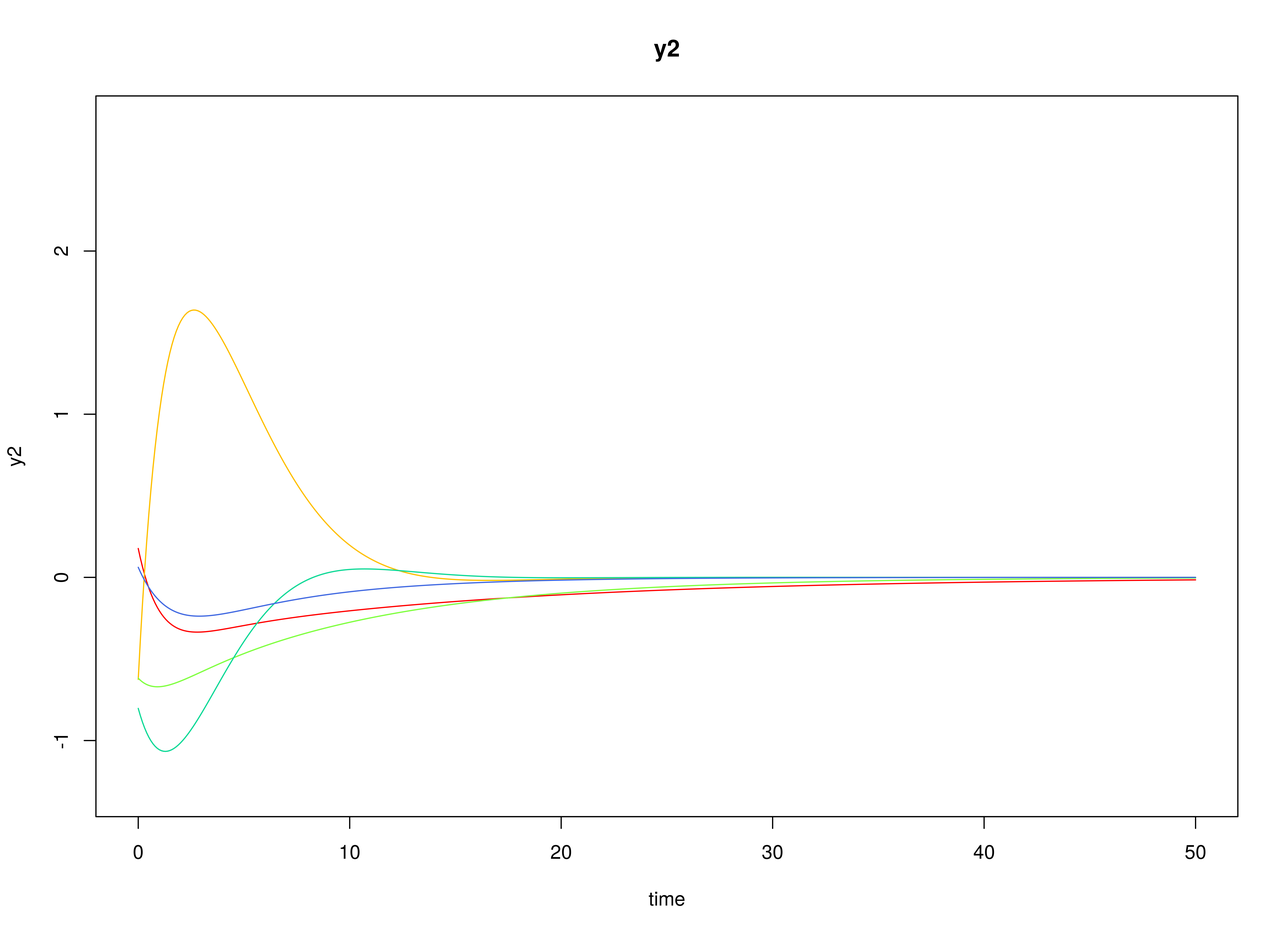
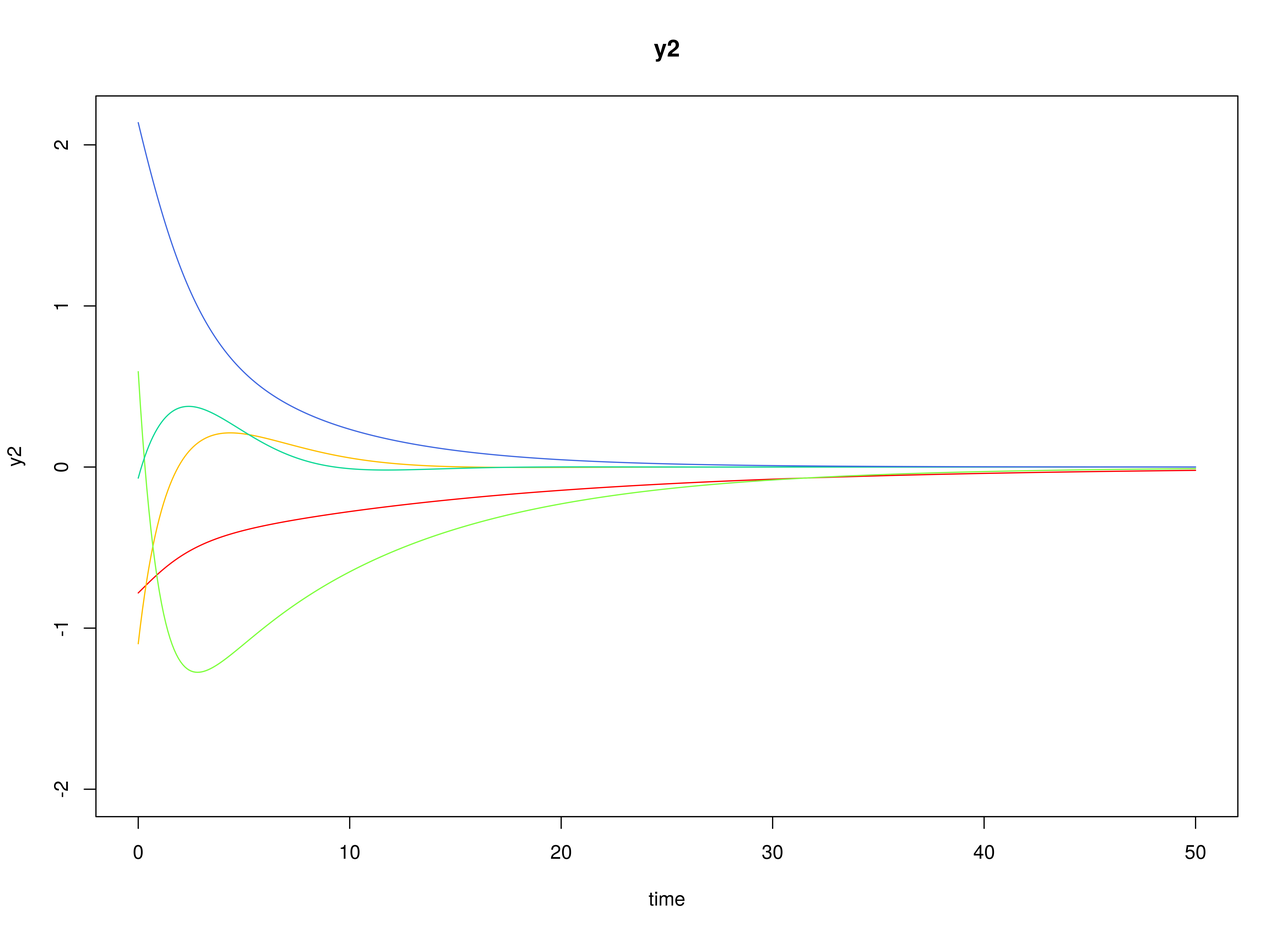
Deploying to pkgdown from @ jeksterslab/fitCTVARMx@f637cf271380e21aa95209ef7028e449f6520e6b 🚀

diff --git a/articles/fit-ct-var.html b/articles/fit-ct-var.html
@@ -59,7 +59,7 @@
                         <h4 data-toc-skip class="author">Ivan Jacob
 Agaloos Pesigan</h4>
             
-            <h4 data-toc-skip class="date">2024-08-08</h4>
+            <h4 data-toc-skip class="date">2024-08-11</h4>
       
       <small class="dont-index">Source: <a href="https://github.com/jeksterslab/fitCTVARMx/blob/main/vignettes/fit-ct-var.Rmd"><code>vignettes/fit-ct-var.Rmd</code></a></small>
       <div class="d-none name"><code>fit-ct-var.Rmd</code></div>
@@ -172,9 +172,9 @@ fluctuations.</p>
 <h3 id="notation">Notation<a class="anchor" aria-label="anchor" href="#notation"></a>
 </h3>
 <p>Let
-<math display="inline" xmlns="http://www.w3.org/1998/Math/MathML"><semantics><mrow><mi>t</mi><mo>=</mo><mn>1000</mn></mrow><annotation encoding="application/x-tex">t = 1000</annotation></semantics></math>
+<math display="inline" xmlns="http://www.w3.org/1998/Math/MathML"><semantics><mrow><mi>t</mi><mo>=</mo><mn>500</mn></mrow><annotation encoding="application/x-tex">t = 500</annotation></semantics></math>
 be the number of time points and
-<math display="inline" xmlns="http://www.w3.org/1998/Math/MathML"><semantics><mrow><mi>n</mi><mo>=</mo><mn>100</mn></mrow><annotation encoding="application/x-tex">n = 100</annotation></semantics></math>
+<math display="inline" xmlns="http://www.w3.org/1998/Math/MathML"><semantics><mrow><mi>n</mi><mo>=</mo><mn>10</mn></mrow><annotation encoding="application/x-tex">n = 10</annotation></semantics></math>
 be the number of individuals.</p>
 <p>Let the measurement model intecept vector
 <math display="inline" xmlns="http://www.w3.org/1998/Math/MathML"><semantics><mi>𝛎</mi><annotation encoding="application/x-tex">\boldsymbol{\nu}</annotation></semantics></math>
@@ -207,14 +207,14 @@ be given by</p>
 <p>Let the measurement error covariance matrix
 <math display="inline" xmlns="http://www.w3.org/1998/Math/MathML"><semantics><mi>𝚯</mi><annotation encoding="application/x-tex">\boldsymbol{\Theta}</annotation></semantics></math>
 be given by</p>
-<p><math display="block" xmlns="http://www.w3.org/1998/Math/MathML"><semantics><mrow><mi>𝚯</mi><mo>=</mo><mrow><mo stretchy="true" form="prefix">(</mo><mtable><mtr><mtd columnalign="center" style="text-align: center"><mn>0</mn></mtd><mtd columnalign="center" style="text-align: center"><mn>0</mn></mtd><mtd columnalign="center" style="text-align: center"><mn>0</mn></mtd></mtr><mtr><mtd columnalign="center" style="text-align: center"><mn>0</mn></mtd><mtd columnalign="center" style="text-align: center"><mn>0</mn></mtd><mtd columnalign="center" style="text-align: center"><mn>0</mn></mtd></mtr><mtr><mtd columnalign="center" style="text-align: center"><mn>0</mn></mtd><mtd columnalign="center" style="text-align: center"><mn>0</mn></mtd><mtd columnalign="center" style="text-align: center"><mn>0</mn></mtd></mtr><mtr><mtd columnalign="center" style="text-align: center"></mtd></mtr></mtable><mo stretchy="true" form="postfix">)</mo></mrow><mi>.</mi></mrow><annotation encoding="application/x-tex">\begin{equation}
+<p><math display="block" xmlns="http://www.w3.org/1998/Math/MathML"><semantics><mrow><mi>𝚯</mi><mo>=</mo><mrow><mo stretchy="true" form="prefix">(</mo><mtable><mtr><mtd columnalign="center" style="text-align: center"><mn>0.2</mn></mtd><mtd columnalign="center" style="text-align: center"><mn>0</mn></mtd><mtd columnalign="center" style="text-align: center"><mn>0</mn></mtd></mtr><mtr><mtd columnalign="center" style="text-align: center"><mn>0</mn></mtd><mtd columnalign="center" style="text-align: center"><mn>0.2</mn></mtd><mtd columnalign="center" style="text-align: center"><mn>0</mn></mtd></mtr><mtr><mtd columnalign="center" style="text-align: center"><mn>0</mn></mtd><mtd columnalign="center" style="text-align: center"><mn>0</mn></mtd><mtd columnalign="center" style="text-align: center"><mn>0.2</mn></mtd></mtr><mtr><mtd columnalign="center" style="text-align: center"></mtd></mtr></mtable><mo stretchy="true" form="postfix">)</mo></mrow><mi>.</mi></mrow><annotation encoding="application/x-tex">\begin{equation}
 \boldsymbol{\Theta}
 =
 \left(
 \begin{array}{ccc}
-  0 &amp; 0 &amp; 0 \\
-  0 &amp; 0 &amp; 0 \\
-  0 &amp; 0 &amp; 0 \\
+  0.2 &amp; 0 &amp; 0 \\
+  0 &amp; 0.2 &amp; 0 \\
+  0 &amp; 0 &amp; 0.2 \\
 \end{array}
 \right) .
 \end{equation}</annotation></semantics></math></p>
@@ -296,9 +296,9 @@ be given by</p>
 </h3>
 <div class="sourceCode" id="cb1"><pre class="downlit sourceCode r">
 <code class="sourceCode R"><span><span class="va">n</span></span>
-<span><span class="co">#&gt; [1] 100</span></span>
+<span><span class="co">#&gt; [1] 10</span></span>
 <span><span class="va">time</span></span>
-<span><span class="co">#&gt; [1] 1000</span></span>
+<span><span class="co">#&gt; [1] 500</span></span>
 <span><span class="va">delta_t</span></span>
 <span><span class="co">#&gt; [1] 0.1</span></span>
 <span><span class="va">mu0</span></span>
@@ -329,9 +329,9 @@ be given by</p>
 <span><span class="co">#&gt; [3,]    0    0    1</span></span>
 <span><span class="va">theta</span></span>
 <span><span class="co">#&gt;      [,1] [,2] [,3]</span></span>
-<span><span class="co">#&gt; [1,]    0    0    0</span></span>
-<span><span class="co">#&gt; [2,]    0    0    0</span></span>
-<span><span class="co">#&gt; [3,]    0    0    0</span></span></code></pre></div>
+<span><span class="co">#&gt; [1,]  0.2  0.0  0.0</span></span>
+<span><span class="co">#&gt; [2,]  0.0  0.2  0.0</span></span>
+<span><span class="co">#&gt; [3,]  0.0  0.0  0.2</span></span></code></pre></div>
 </div>
 <div class="section level3">
 <h3 id="visualizing-the-dynamics-without-measurement-error-and-process-noise-n-5-with-different-initial-condition">Visualizing the Dynamics Without Measurement Error and Process Noise
@@ -361,13 +361,13 @@ be given by</p>
 <span><span class="op">)</span></span>
 <span><span class="va">data</span> <span class="op">&lt;-</span> <span class="fu"><a href="https://rdrr.io/r/base/as.data.frame.html" class="external-link">as.data.frame</a></span><span class="op">(</span><span class="va">sim</span><span class="op">)</span></span>
 <span><span class="fu"><a href="https://rdrr.io/r/utils/head.html" class="external-link">head</a></span><span class="op">(</span><span class="va">data</span><span class="op">)</span></span>
-<span><span class="co">#&gt;   id time         y1         y2        y3</span></span>
-<span><span class="co">#&gt; 1  1  0.0 -0.3643096 -0.6026342 0.9065540</span></span>
-<span><span class="co">#&gt; 2  1  0.1 -0.3256180 -0.5022615 0.8677814</span></span>
-<span><span class="co">#&gt; 3  1  0.2 -0.2296496 -0.3203675 0.8569315</span></span>
-<span><span class="co">#&gt; 4  1  0.3 -0.2413114 -0.3622560 0.7848573</span></span>
-<span><span class="co">#&gt; 5  1  0.4 -0.3358543 -0.2430579 0.6294530</span></span>
-<span><span class="co">#&gt; 6  1  0.5 -0.2806468 -0.2063894 0.5806752</span></span>
+<span><span class="co">#&gt;   id time         y1          y2        y3</span></span>
+<span><span class="co">#&gt; 1  1  0.0  0.2993754 -1.31512925 1.5799184</span></span>
+<span><span class="co">#&gt; 2  1  0.1 -1.0023155  0.03359621 1.0254889</span></span>
+<span><span class="co">#&gt; 3  1  0.2  0.2704403 -0.32115025 1.3880666</span></span>
+<span><span class="co">#&gt; 4  1  0.3 -0.1433416 -0.75056366 1.2085179</span></span>
+<span><span class="co">#&gt; 5  1  0.4 -1.4919305 -0.26816762 0.2749754</span></span>
+<span><span class="co">#&gt; 6  1  0.5 -0.7640905  0.45476189 0.3812558</span></span>
 <span><span class="fu"><a href="https://rdrr.io/r/graphics/plot.default.html" class="external-link">plot</a></span><span class="op">(</span><span class="va">sim</span><span class="op">)</span></span></code></pre></div>
 <p><img src="fig-vignettes-fit-ct-var-mx-error-1.png" width="3300"><img src="fig-vignettes-fit-ct-var-mx-error-2.png" width="3300"><img src="fig-vignettes-fit-ct-var-mx-error-3.png" width="3300"></p>
 </div>
@@ -385,37 +385,41 @@ individual
 <span>  observed <span class="op">=</span> <span class="fu"><a href="https://rdrr.io/r/base/paste.html" class="external-link">paste0</a></span><span class="op">(</span><span class="st">"y"</span>, <span class="fu"><a href="https://rdrr.io/r/base/seq.html" class="external-link">seq_len</a></span><span class="op">(</span><span class="va">k</span><span class="op">)</span><span class="op">)</span>,</span>
 <span>  id <span class="op">=</span> <span class="st">"id"</span>,</span>
 <span>  time <span class="op">=</span> <span class="st">"time"</span>,</span>
+<span>  theta_fixed <span class="op">=</span> <span class="cn">FALSE</span>,</span>
 <span>  ncores <span class="op">=</span> <span class="fu">parallel</span><span class="fu">::</span><span class="fu"><a href="https://rdrr.io/r/parallel/detectCores.html" class="external-link">detectCores</a></span><span class="op">(</span><span class="op">)</span></span>
 <span><span class="op">)</span></span>
-<span><span class="co">#&gt; Running CTVAR with 12 parameters</span></span>
+<span><span class="co">#&gt; Running CTVAR with 15 parameters</span></span>
 <span><span class="co">#&gt; </span></span>
 <span><span class="co">#&gt; Beginning initial fit attempt</span></span>
-<span><span class="co">#&gt; Running CTVAR with 12 parameters</span></span>
+<span><span class="co">#&gt; Running CTVAR with 15 parameters</span></span>
 <span><span class="co">#&gt; </span></span>
-<span><span class="co">#&gt;  Lowest minimum so far:  -543716.980131128</span></span>
+<span><span class="co">#&gt;  Lowest minimum so far:  20938.7451915782</span></span>
 <span><span class="co">#&gt; </span></span>
 <span><span class="co">#&gt; Solution found</span></span></code></pre></div>
 <pre><code><span><span class="co">#&gt; </span></span>
-<span><span class="co">#&gt;  Solution found!  Final fit=-543716.98 (started at -524291.52)  (1 attempt(s): 1 valid, 0 errors)</span></span>
+<span><span class="co">#&gt;  Solution found!  Final fit=20938.745 (started at 25088.788)  (1 attempt(s): 1 valid, 0 errors)</span></span>
 <span><span class="co">#&gt;  Start values from best fit:</span></span>
-<span><span class="co">#&gt; -0.336259079122471,0.770287067798403,-0.464190065239356,0.00205658765648727,-0.521492461088462,0.735878240731034,-0.0106374506388174,0.0129009602154161,-0.697095884475648,0.0994158716609205,0.100737065910388,0.10023245133394</span></span>
+<span><span class="co">#&gt; -0.434092846335603,0.731083054534586,-0.408948705507987,0.0277828630418771,-0.510542571057738,0.665259002972739,-0.0372740055486106,0.0358314559387023,-0.669863577496887,0.105612247224809,0.112017199749032,0.0922633953514766,0.196662438389066,0.186379501447245,0.203624352675804</span></span>
 <span><span class="va">fit</span></span>
 <span><span class="co">#&gt; Summary of CTVAR </span></span>
 <span><span class="co">#&gt;  </span></span>
 <span><span class="co">#&gt; free parameters:</span></span>
-<span><span class="co">#&gt;        name        matrix  row  col     Estimate    Std.Error A</span></span>
-<span><span class="co">#&gt; 1    phi_11   CTVAR_1.phi eta1 eta1 -0.336259079 0.0112876840  </span></span>
-<span><span class="co">#&gt; 2    phi_21   CTVAR_1.phi eta2 eta1  0.770287068 0.0112334809  </span></span>
-<span><span class="co">#&gt; 3    phi_31   CTVAR_1.phi eta3 eta1 -0.464190065 0.0111528376  </span></span>
-<span><span class="co">#&gt; 4    phi_12   CTVAR_1.phi eta1 eta2  0.002056588 0.0097320464  </span></span>
-<span><span class="co">#&gt; 5    phi_22   CTVAR_1.phi eta2 eta2 -0.521492461 0.0098184506  </span></span>
-<span><span class="co">#&gt; 6    phi_32   CTVAR_1.phi eta3 eta2  0.735878241 0.0097176408  </span></span>
-<span><span class="co">#&gt; 7    phi_13   CTVAR_1.phi eta1 eta3 -0.010637451 0.0089962429  </span></span>
-<span><span class="co">#&gt; 8    phi_23   CTVAR_1.phi eta2 eta3  0.012900960 0.0090682626  </span></span>
-<span><span class="co">#&gt; 9    phi_33   CTVAR_1.phi eta3 eta3 -0.697095884 0.0090833222  </span></span>
-<span><span class="co">#&gt; 10 sigma_11 CTVAR_1.sigma eta1 eta1  0.099415872 0.0004590553  </span></span>
-<span><span class="co">#&gt; 11 sigma_22 CTVAR_1.sigma eta2 eta2  0.100737066 0.0004614320  </span></span>
-<span><span class="co">#&gt; 12 sigma_33 CTVAR_1.sigma eta3 eta3  0.100232451 0.0004571693  </span></span>
+<span><span class="co">#&gt;        name        matrix  row  col    Estimate   Std.Error A</span></span>
+<span><span class="co">#&gt; 1    phi_11   CTVAR_1.phi eta1 eta1 -0.43409285 0.092674248  </span></span>
+<span><span class="co">#&gt; 2    phi_21   CTVAR_1.phi eta2 eta1  0.73108305 0.080617107  </span></span>
+<span><span class="co">#&gt; 3    phi_31   CTVAR_1.phi eta3 eta1 -0.40894871 0.073163039  </span></span>
+<span><span class="co">#&gt; 4    phi_12   CTVAR_1.phi eta1 eta2  0.02778286 0.066923811  </span></span>
+<span><span class="co">#&gt; 5    phi_22   CTVAR_1.phi eta2 eta2 -0.51054257 0.071676661  </span></span>
+<span><span class="co">#&gt; 6    phi_32   CTVAR_1.phi eta3 eta2  0.66525900 0.063093652  </span></span>
+<span><span class="co">#&gt; 7    phi_13   CTVAR_1.phi eta1 eta3 -0.03727401 0.058772785  </span></span>
+<span><span class="co">#&gt; 8    phi_23   CTVAR_1.phi eta2 eta3  0.03583146 0.062072649  </span></span>
+<span><span class="co">#&gt; 9    phi_33   CTVAR_1.phi eta3 eta3 -0.66986358 0.063636481  </span></span>
+<span><span class="co">#&gt; 10 sigma_11 CTVAR_1.sigma eta1 eta1  0.10561225 0.014307028  </span></span>
+<span><span class="co">#&gt; 11 sigma_22 CTVAR_1.sigma eta2 eta2  0.11201720 0.012739578  </span></span>
+<span><span class="co">#&gt; 12 sigma_33 CTVAR_1.sigma eta3 eta3  0.09226340 0.011809245  </span></span>
+<span><span class="co">#&gt; 13 theta_11 CTVAR_1.theta   y1   y1  0.19666244 0.004623033  </span></span>
+<span><span class="co">#&gt; 14 theta_22 CTVAR_1.theta   y2   y2  0.18637950 0.004372056  </span></span>
+<span><span class="co">#&gt; 15 theta_33 CTVAR_1.theta   y3   y3  0.20362435 0.004709026  </span></span>
 <span><span class="co">#&gt;                  lbound               ubound</span></span>
 <span><span class="co">#&gt; 1                       2.2250738585072e-308</span></span>
 <span><span class="co">#&gt; 2                                           </span></span>
@@ -429,25 +433,28 @@ individual
 <span><span class="co">#&gt; 10 2.2250738585072e-308                     </span></span>
 <span><span class="co">#&gt; 11 2.2250738585072e-308                     </span></span>
 <span><span class="co">#&gt; 12 2.2250738585072e-308                     </span></span>
+<span><span class="co">#&gt; 13 2.2250738585072e-308                     </span></span>
+<span><span class="co">#&gt; 14 2.2250738585072e-308                     </span></span>
+<span><span class="co">#&gt; 15 2.2250738585072e-308                     </span></span>
 <span><span class="co">#&gt; </span></span>
 <span><span class="co">#&gt; Model Statistics: </span></span>
 <span><span class="co">#&gt;                |  Parameters  |  Degrees of Freedom  |  Fit (-2lnL units)</span></span>
-<span><span class="co">#&gt;        Model:             12                 299988               -543717</span></span>
+<span><span class="co">#&gt;        Model:             15                  14985              20938.75</span></span>
 <span><span class="co">#&gt;    Saturated:             NA                     NA                    NA</span></span>
 <span><span class="co">#&gt; Independence:             NA                     NA                    NA</span></span>
-<span><span class="co">#&gt; Number of observations/statistics: 1e+05/3e+05</span></span>
+<span><span class="co">#&gt; Number of observations/statistics: 5000/15000</span></span>
 <span><span class="co">#&gt; </span></span>
 <span><span class="co">#&gt; Information Criteria: </span></span>
 <span><span class="co">#&gt;       |  df Penalty  |  Parameters Penalty  |  Sample-Size Adjusted</span></span>
-<span><span class="co">#&gt; AIC:       -1143693              -543693.0                  -543693</span></span>
-<span><span class="co">#&gt; BIC:       -3997456              -543578.8                  -543617</span></span>
+<span><span class="co">#&gt; AIC:      -9031.255               20968.75                 20968.84</span></span>
+<span><span class="co">#&gt; BIC:    -106691.395               21066.50                 21018.84</span></span>
 <span><span class="co">#&gt; CFI: NA </span></span>
 <span><span class="co">#&gt; TLI: 1   (also known as NNFI) </span></span>
 <span><span class="co">#&gt; RMSEA:  0  [95% CI (NA, NA)]</span></span>
 <span><span class="co">#&gt; Prob(RMSEA &lt;= 0.05): NA</span></span>
 <span><span class="co">#&gt; To get additional fit indices, see help(mxRefModels)</span></span>
-<span><span class="co">#&gt; timestamp: 2024-08-08 07:04:42 </span></span>
-<span><span class="co">#&gt; Wall clock time: 149.2614 secs </span></span>
+<span><span class="co">#&gt; timestamp: 2024-08-11 22:29:06 </span></span>
+<span><span class="co">#&gt; Wall clock time: 11.63689 secs </span></span>
 <span><span class="co">#&gt; optimizer:  SLSQP </span></span>
 <span><span class="co">#&gt; OpenMx version number: 2.21.11 </span></span>
 <span><span class="co">#&gt; Need help?  See help(mxSummary)</span></span></code></pre>

diff --git a/articles/fit-ct-var-id.html b/articles/fit-ct-var-id.html
@@ -59,7 +59,7 @@
                         <h4 data-toc-skip class="author">Ivan Jacob
 Agaloos Pesigan</h4>
             
-            <h4 data-toc-skip class="date">2024-08-08</h4>
+            <h4 data-toc-skip class="date">2024-08-11</h4>
       
       <small class="dont-index">Source: <a href="https://github.com/jeksterslab/fitCTVARMx/blob/main/vignettes/fit-ct-var-id.Rmd"><code>vignettes/fit-ct-var-id.Rmd</code></a></small>
       <div class="d-none name"><code>fit-ct-var-id.Rmd</code></div>
@@ -172,9 +172,9 @@ fluctuations.</p>
 <h3 id="notation">Notation<a class="anchor" aria-label="anchor" href="#notation"></a>
 </h3>
 <p>Let
-<math display="inline" xmlns="http://www.w3.org/1998/Math/MathML"><semantics><mrow><mi>t</mi><mo>=</mo><mn>1000</mn></mrow><annotation encoding="application/x-tex">t = 1000</annotation></semantics></math>
+<math display="inline" xmlns="http://www.w3.org/1998/Math/MathML"><semantics><mrow><mi>t</mi><mo>=</mo><mn>500</mn></mrow><annotation encoding="application/x-tex">t = 500</annotation></semantics></math>
 be the number of time points and
-<math display="inline" xmlns="http://www.w3.org/1998/Math/MathML"><semantics><mrow><mi>n</mi><mo>=</mo><mn>100</mn></mrow><annotation encoding="application/x-tex">n = 100</annotation></semantics></math>
+<math display="inline" xmlns="http://www.w3.org/1998/Math/MathML"><semantics><mrow><mi>n</mi><mo>=</mo><mn>10</mn></mrow><annotation encoding="application/x-tex">n = 10</annotation></semantics></math>
 be the number of individuals.</p>
 <p>Let the measurement model intecept vector
 <math display="inline" xmlns="http://www.w3.org/1998/Math/MathML"><semantics><mi>𝛎</mi><annotation encoding="application/x-tex">\boldsymbol{\nu}</annotation></semantics></math>
@@ -207,14 +207,14 @@ be given by</p>
 <p>Let the measurement error covariance matrix
 <math display="inline" xmlns="http://www.w3.org/1998/Math/MathML"><semantics><mi>𝚯</mi><annotation encoding="application/x-tex">\boldsymbol{\Theta}</annotation></semantics></math>
 be given by</p>
-<p><math display="block" xmlns="http://www.w3.org/1998/Math/MathML"><semantics><mrow><mi>𝚯</mi><mo>=</mo><mrow><mo stretchy="true" form="prefix">(</mo><mtable><mtr><mtd columnalign="center" style="text-align: center"><mn>0</mn></mtd><mtd columnalign="center" style="text-align: center"><mn>0</mn></mtd><mtd columnalign="center" style="text-align: center"><mn>0</mn></mtd></mtr><mtr><mtd columnalign="center" style="text-align: center"><mn>0</mn></mtd><mtd columnalign="center" style="text-align: center"><mn>0</mn></mtd><mtd columnalign="center" style="text-align: center"><mn>0</mn></mtd></mtr><mtr><mtd columnalign="center" style="text-align: center"><mn>0</mn></mtd><mtd columnalign="center" style="text-align: center"><mn>0</mn></mtd><mtd columnalign="center" style="text-align: center"><mn>0</mn></mtd></mtr><mtr><mtd columnalign="center" style="text-align: center"></mtd></mtr></mtable><mo stretchy="true" form="postfix">)</mo></mrow><mi>.</mi></mrow><annotation encoding="application/x-tex">\begin{equation}
+<p><math display="block" xmlns="http://www.w3.org/1998/Math/MathML"><semantics><mrow><mi>𝚯</mi><mo>=</mo><mrow><mo stretchy="true" form="prefix">(</mo><mtable><mtr><mtd columnalign="center" style="text-align: center"><mn>0.2</mn></mtd><mtd columnalign="center" style="text-align: center"><mn>0</mn></mtd><mtd columnalign="center" style="text-align: center"><mn>0</mn></mtd></mtr><mtr><mtd columnalign="center" style="text-align: center"><mn>0</mn></mtd><mtd columnalign="center" style="text-align: center"><mn>0.2</mn></mtd><mtd columnalign="center" style="text-align: center"><mn>0</mn></mtd></mtr><mtr><mtd columnalign="center" style="text-align: center"><mn>0</mn></mtd><mtd columnalign="center" style="text-align: center"><mn>0</mn></mtd><mtd columnalign="center" style="text-align: center"><mn>0.2</mn></mtd></mtr><mtr><mtd columnalign="center" style="text-align: center"></mtd></mtr></mtable><mo stretchy="true" form="postfix">)</mo></mrow><mi>.</mi></mrow><annotation encoding="application/x-tex">\begin{equation}
 \boldsymbol{\Theta}
 =
 \left(
 \begin{array}{ccc}
-  0 &amp; 0 &amp; 0 \\
-  0 &amp; 0 &amp; 0 \\
-  0 &amp; 0 &amp; 0 \\
+  0.2 &amp; 0 &amp; 0 \\
+  0 &amp; 0.2 &amp; 0 \\
+  0 &amp; 0 &amp; 0.2 \\
 \end{array}
 \right) .
 \end{equation}</annotation></semantics></math></p>
@@ -314,9 +314,9 @@ be given by</p>
 </h3>
 <div class="sourceCode" id="cb1"><pre class="downlit sourceCode r">
 <code class="sourceCode R"><span><span class="va">n</span></span>
-<span><span class="co">#&gt; [1] 100</span></span>
+<span><span class="co">#&gt; [1] 10</span></span>
 <span><span class="va">time</span></span>
-<span><span class="co">#&gt; [1] 1000</span></span>
+<span><span class="co">#&gt; [1] 500</span></span>
 <span><span class="va">delta_t</span></span>
 <span><span class="co">#&gt; [1] 0.1</span></span>
 <span><span class="va">mu0</span></span>
@@ -364,15 +364,15 @@ be given by</p>
 <span><span class="co">#&gt; [3,]    0    0    1</span></span>
 <span><span class="va">theta</span></span>
 <span><span class="co">#&gt;      [,1] [,2] [,3]</span></span>
-<span><span class="co">#&gt; [1,]    0    0    0</span></span>
-<span><span class="co">#&gt; [2,]    0    0    0</span></span>
-<span><span class="co">#&gt; [3,]    0    0    0</span></span>
+<span><span class="co">#&gt; [1,]  0.2  0.0  0.0</span></span>
+<span><span class="co">#&gt; [2,]  0.0  0.2  0.0</span></span>
+<span><span class="co">#&gt; [3,]  0.0  0.0  0.2</span></span>
 <span><span class="va">theta_l</span></span>
 <span><span class="co">#&gt; [[1]]</span></span>
-<span><span class="co">#&gt;      [,1] [,2] [,3]</span></span>
-<span><span class="co">#&gt; [1,]    0    0    0</span></span>
-<span><span class="co">#&gt; [2,]    0    0    0</span></span>
-<span><span class="co">#&gt; [3,]    0    0    0</span></span></code></pre></div>
+<span><span class="co">#&gt;           [,1]      [,2]      [,3]</span></span>
+<span><span class="co">#&gt; [1,] 0.4472136 0.0000000 0.0000000</span></span>
+<span><span class="co">#&gt; [2,] 0.0000000 0.4472136 0.0000000</span></span>
+<span><span class="co">#&gt; [3,] 0.0000000 0.0000000 0.4472136</span></span></code></pre></div>
 </div>
 <div class="section level3">
 <h3 id="visualizing-the-dynamics-without-process-noise-n-5-with-different-initial-condition">Visualizing the Dynamics Without Process Noise (n = 5 with Different
@@ -401,13 +401,13 @@ Initial Condition)<a class="anchor" aria-label="anchor" href="#visualizing-the-d
 <span><span class="op">)</span></span>
 <span><span class="va">data</span> <span class="op">&lt;-</span> <span class="fu"><a href="https://rdrr.io/r/base/as.data.frame.html" class="external-link">as.data.frame</a></span><span class="op">(</span><span class="va">sim</span><span class="op">)</span></span>
 <span><span class="fu"><a href="https://rdrr.io/r/utils/head.html" class="external-link">head</a></span><span class="op">(</span><span class="va">data</span><span class="op">)</span></span>
-<span><span class="co">#&gt;   id time        y1         y2        y3</span></span>
-<span><span class="co">#&gt; 1  1  0.0 -1.407144 -0.3703871 -1.005882</span></span>
-<span><span class="co">#&gt; 2  1  0.1 -1.372881 -0.4764856 -1.058330</span></span>
-<span><span class="co">#&gt; 3  1  0.2 -1.290353 -0.5443476 -1.018862</span></span>
-<span><span class="co">#&gt; 4  1  0.3 -1.239194 -0.7836783 -1.072401</span></span>
-<span><span class="co">#&gt; 5  1  0.4 -1.110661 -0.9018310 -1.060215</span></span>
-<span><span class="co">#&gt; 6  1  0.5 -1.198872 -0.8450478 -1.084714</span></span>
+<span><span class="co">#&gt;   id time         y1         y2         y3</span></span>
+<span><span class="co">#&gt; 1  1  0.0 -0.9066322  0.2077655 -0.1532395</span></span>
+<span><span class="co">#&gt; 2  1  0.1 -2.0187881  0.1100828  1.5700524</span></span>
+<span><span class="co">#&gt; 3  1  0.2 -1.9509792  0.7388884  0.6062416</span></span>
+<span><span class="co">#&gt; 4  1  0.3 -0.7648885 -0.3710951  0.6992641</span></span>
+<span><span class="co">#&gt; 5  1  0.4 -1.9989218 -1.4027964 -0.1971148</span></span>
+<span><span class="co">#&gt; 6  1  0.5 -1.7412161 -0.2356327 -0.4460133</span></span>
 <span><span class="fu"><a href="https://rdrr.io/r/graphics/plot.default.html" class="external-link">plot</a></span><span class="op">(</span><span class="va">sim</span><span class="op">)</span></span></code></pre></div>
 <p><img src="fig-vignettes-fit-ct-var-id-mx-error-1.png" width="3300"><img src="fig-vignettes-fit-ct-var-id-mx-error-2.png" width="3300"><img src="fig-vignettes-fit-ct-var-id-mx-error-3.png" width="3300"></p>
 </div>
@@ -425,15 +425,18 @@ individual
 <span>  observed <span class="op">=</span> <span class="fu"><a href="https://rdrr.io/r/base/paste.html" class="external-link">paste0</a></span><span class="op">(</span><span class="st">"y"</span>, <span class="fu"><a href="https://rdrr.io/r/base/seq.html" class="external-link">seq_len</a></span><span class="op">(</span><span class="va">k</span><span class="op">)</span><span class="op">)</span>,</span>
 <span>  id <span class="op">=</span> <span class="st">"id"</span>,</span>
 <span>  time <span class="op">=</span> <span class="st">"time"</span>,</span>
+<span>  theta_fixed <span class="op">=</span> <span class="cn">FALSE</span>,</span>
 <span>  ncores <span class="op">=</span> <span class="fu">parallel</span><span class="fu">::</span><span class="fu"><a href="https://rdrr.io/r/parallel/detectCores.html" class="external-link">detectCores</a></span><span class="op">(</span><span class="op">)</span></span>
 <span><span class="op">)</span></span>
 <span><span class="va">fit</span></span>
 <span><span class="co">#&gt; </span></span>
 <span><span class="co">#&gt; Means of the estimated paramaters per individual.</span></span>
 <span><span class="co">#&gt;       phi_11       phi_21       phi_31       phi_12       phi_22       phi_32 </span></span>
-<span><span class="co">#&gt; -0.405740018  0.777807791 -0.457255643  0.000949408 -0.549470908  0.724583368 </span></span>
+<span><span class="co">#&gt; -0.329091189  0.851689092 -0.507551362  0.015917202 -0.509584686  1.032802799 </span></span>
 <span><span class="co">#&gt;       phi_13       phi_23       phi_33     sigma_11     sigma_22     sigma_33 </span></span>
-<span><span class="co">#&gt;  0.003763113 -0.013551647 -0.735826877  0.099096944  0.099638843  0.100193412</span></span></code></pre></div>
+<span><span class="co">#&gt;  0.007716078  0.033385190 -1.017327464  0.100409860  0.101391404  0.121158245 </span></span>
+<span><span class="co">#&gt;     theta_11     theta_22     theta_33 </span></span>
+<span><span class="co">#&gt;  0.200496451  0.193508168  0.197870476</span></span></code></pre></div>
 </div>
 <div class="section level2 unnumbered">
 <h2 class="unnumbered" id="references">References<a class="anchor" aria-label="anchor" href="#references"></a>

diff --git a/articles/session.html b/articles/session.html
@@ -524,7 +524,7 @@ Agaloos Pesigan</h4>
 <span><span class="co">#&gt; Stepping:                           1</span></span>
 <span><span class="co">#&gt; CPU max MHz:                        2900.0000</span></span>
 <span><span class="co">#&gt; CPU min MHz:                        1200.0000</span></span>
-<span><span class="co">#&gt; BogoMIPS:                           4389.77</span></span>
+<span><span class="co">#&gt; BogoMIPS:                           4389.88</span></span>
 <span><span class="co">#&gt; Flags:                              fpu vme de pse tsc msr pae mce cx8 apic sep mtrr pge mca cmov pat pse36 clflush dts acpi mmx fxsr sse sse2 ss ht tm pbe syscall nx pdpe1gb rdtscp lm constant_tsc arch_perfmon pebs bts rep_good nopl xtopology nonstop_tsc cpuid aperfmperf pni pclmulqdq dtes64 monitor ds_cpl smx est tm2 ssse3 sdbg fma cx16 xtpr pdcm pcid dca sse4_1 sse4_2 x2apic movbe popcnt tsc_deadline_timer aes xsave avx f16c rdrand lahf_lm abm 3dnowprefetch cpuid_fault epb cat_l3 cdp_l3 invpcid_single pti ssbd ibrs ibpb stibp fsgsbase tsc_adjust bmi1 hle avx2 smep bmi2 erms invpcid rtm cqm rdt_a rdseed adx smap intel_pt xsaveopt cqm_llc cqm_occup_llc cqm_mbm_total cqm_mbm_local dtherm ida arat pln pts md_clear flush_l1d</span></span>
 <span><span class="co">#&gt; L1d cache:                          768 KiB (24 instances)</span></span>
 <span><span class="co">#&gt; L1i cache:                          768 KiB (24 instances)</span></span>
@@ -551,9 +551,9 @@ Agaloos Pesigan</h4>
 <h2 id="memory">Memory<a class="anchor" aria-label="anchor" href="#memory"></a>
 </h2>
 <pre><code><span><span class="co">#&gt;                total        used        free      shared  buff/cache   available</span></span>
-<span><span class="co">#&gt; Mem:           125Gi       3.3Gi        26Gi       4.7Gi        95Gi       116Gi</span></span>
+<span><span class="co">#&gt; Mem:           125Gi       3.0Gi        63Gi       4.7Gi        58Gi       117Gi</span></span>
 <span><span class="co">#&gt; Swap:             0B          0B          0B</span></span>
-<span><span class="co">#&gt; Total:         125Gi       3.3Gi        26Gi</span></span></code></pre>
+<span><span class="co">#&gt; Total:         125Gi       3.0Gi        63Gi</span></span></code></pre>
 </div>
   </main><aside class="col-md-3"><nav id="toc" aria-label="Table of contents"><h2>On this page</h2>
     </nav></aside>

diff --git a/index.html b/index.html
@@ -54,7 +54,7 @@
   <main id="main" class="col-md-9"><div class="section level1">
 <div class="page-header"><h1 id="fitctvarmx">fitCTVARMx<a class="anchor" aria-label="anchor" href="#fitctvarmx"></a>
 </h1></div>
-<p>Ivan Jacob Agaloos Pesigan 2024-08-08</p>
+<p>Ivan Jacob Agaloos Pesigan 2024-08-11</p>
 <!-- README.md is generated from .setup/readme/README.Rmd. Please edit that file -->
 <!-- badges: start -->
 
